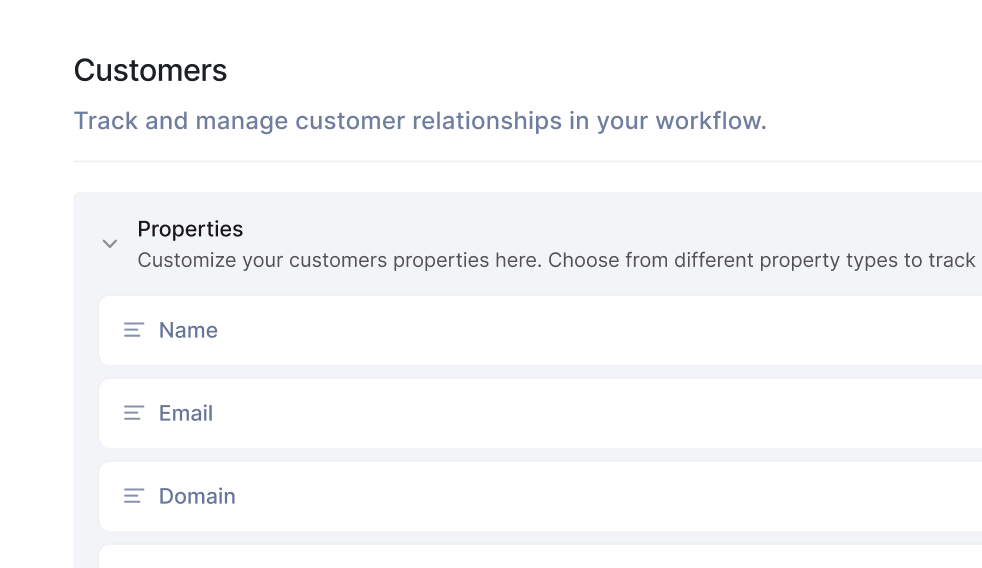
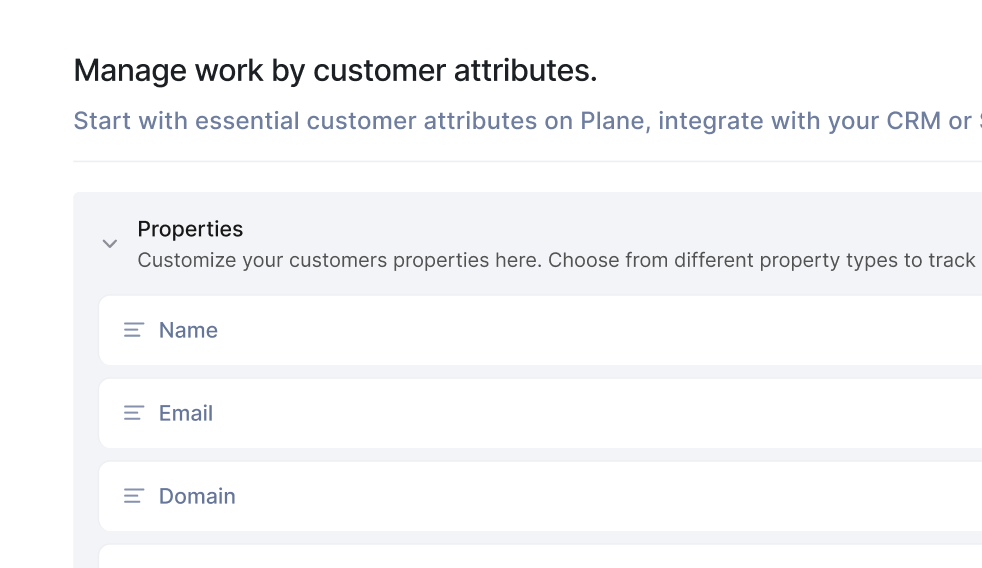
chore: updated ux copy for coming soon page

Changed region(s): [[0.0611, 0.1796, 1.0, 0.2394], [0.0611, 0.0898, 0.611, 0.1496]]

diff --git a/web/ee/components/customers/upgrade.tsx b/web/ee/components/customers/upgrade.tsx
@@ -37,7 +37,7 @@ export const CustomerUpgrade: FC = observer(() => {
     if (!isCustomersFeatureFlagEnabled) {
       return (
         <Button variant="primary" disabled>
-          Coming Soon
+          Coming soon
         </Button>
       );
     }
@@ -53,8 +53,8 @@ export const CustomerUpgrade: FC = observer(() => {
       >
         <div className={cn("flex w-full flex-col  justify-center relative p-5 xl:pl-10 xl:min-h-[25rem]")}>
           <div className="w-full xl:max-w-[300px]">
-            <div className="text-2xl font-semibold">Customers</div>
-            <div className="text-sm">Track and manage customer relationships in your workflow.</div>
+            <div className="text-2xl/7 font-semibold mb-2 line-">Prioritize and manage work with Customers.</div>
+            <div className="text-sm">Map your work to customers and prioritize by customer attributes.</div>
             <div className="mt-6">{getUpgradeButton()}</div>
           </div>
         </div>
